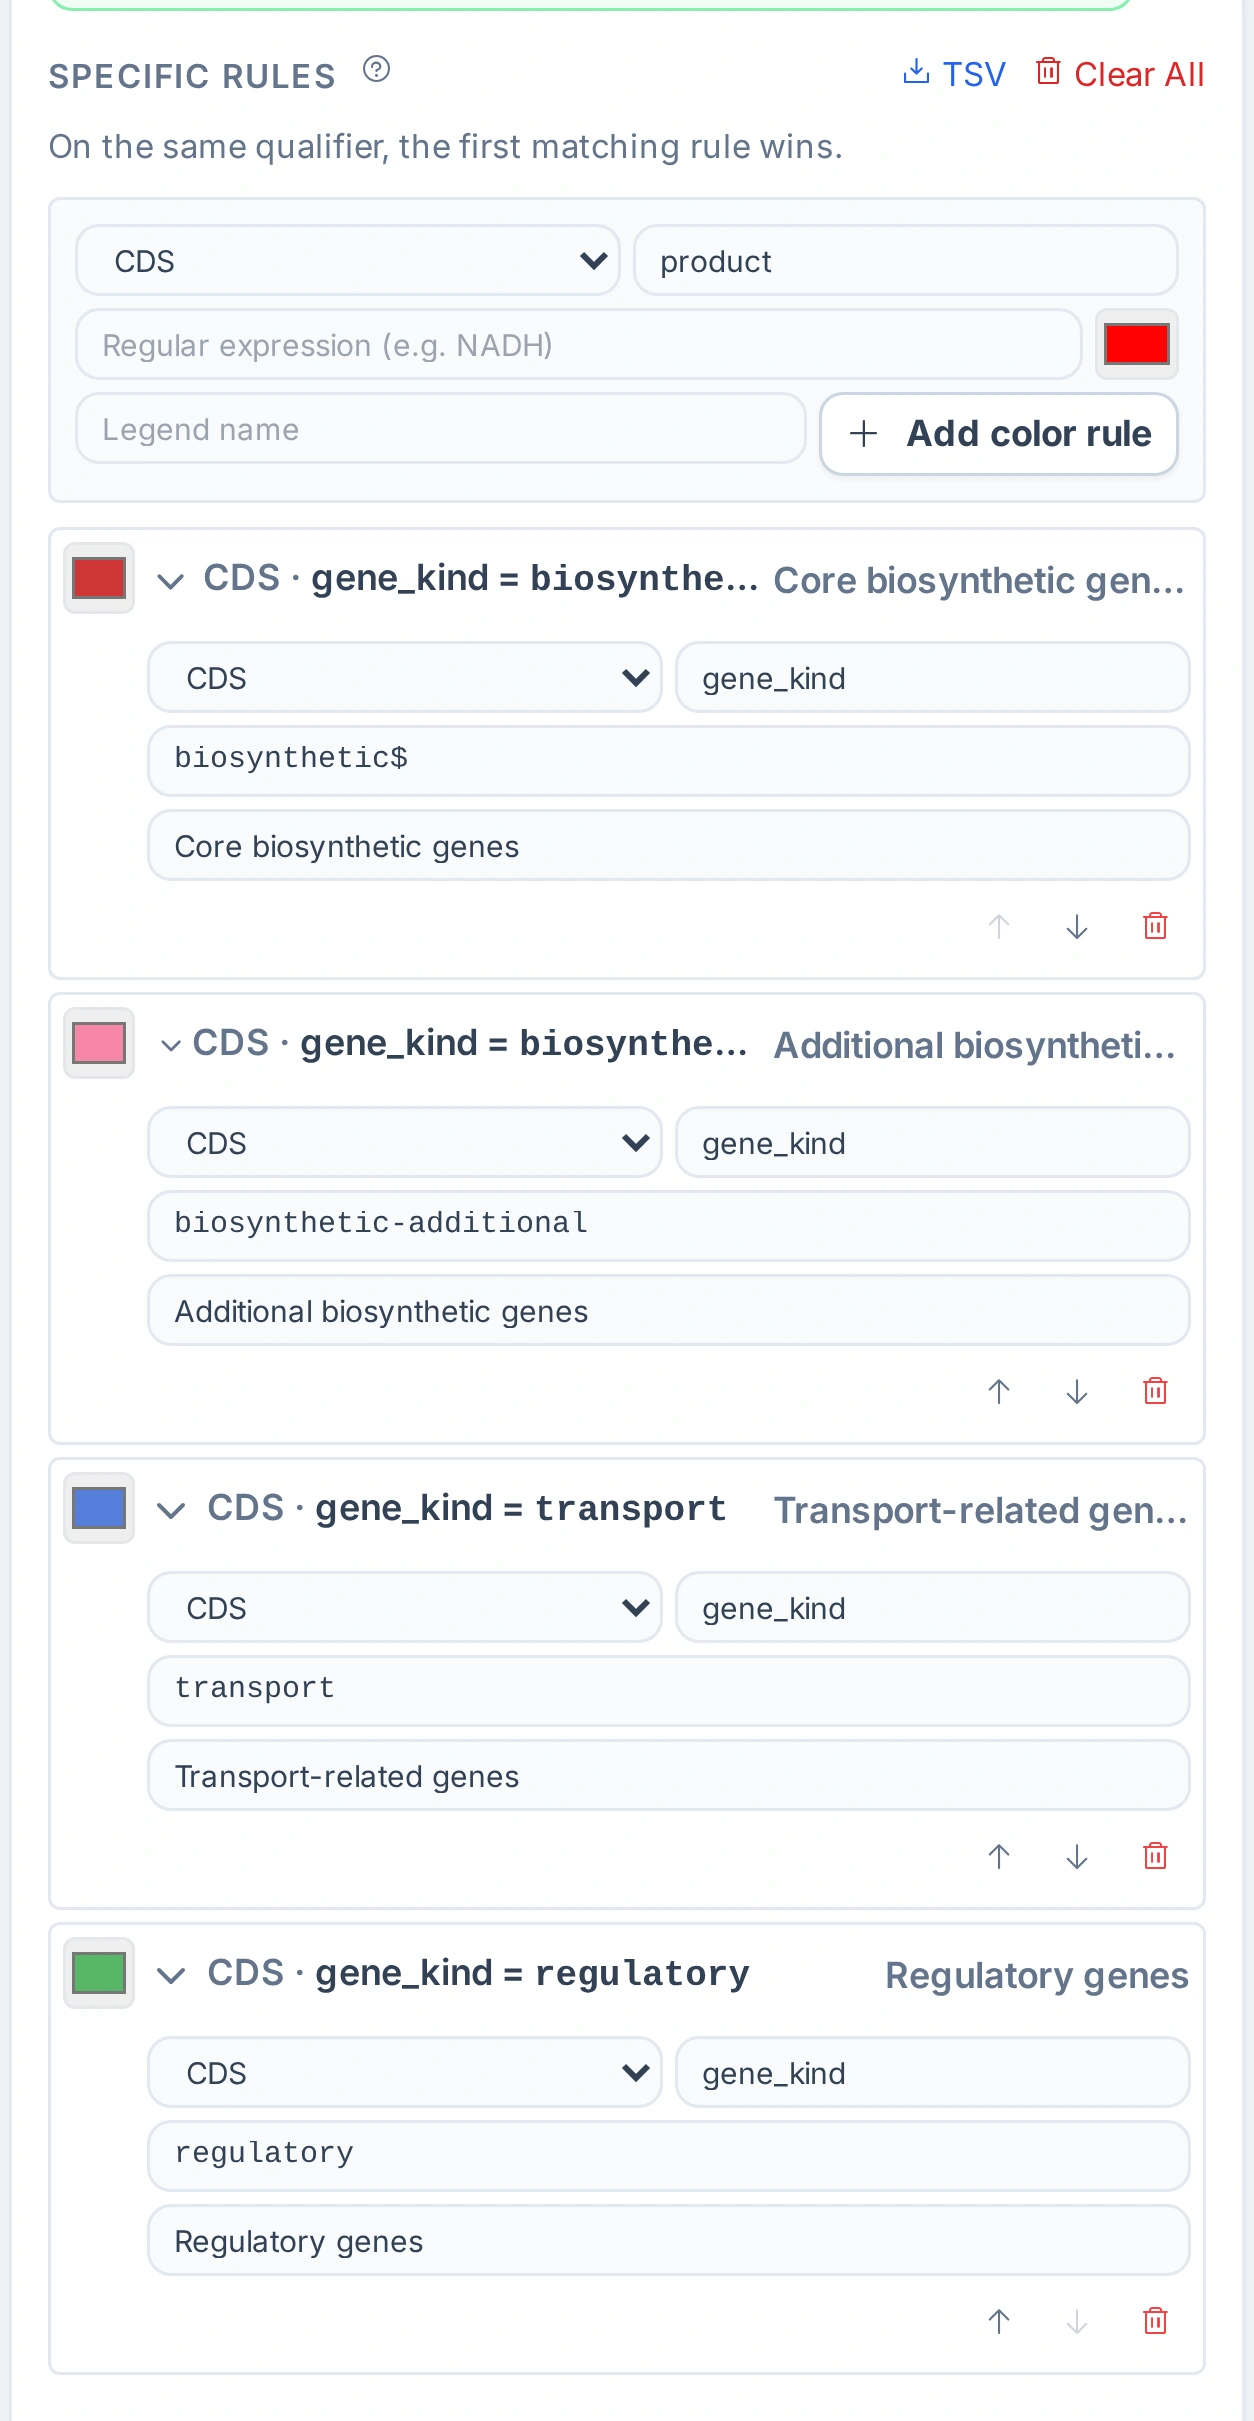
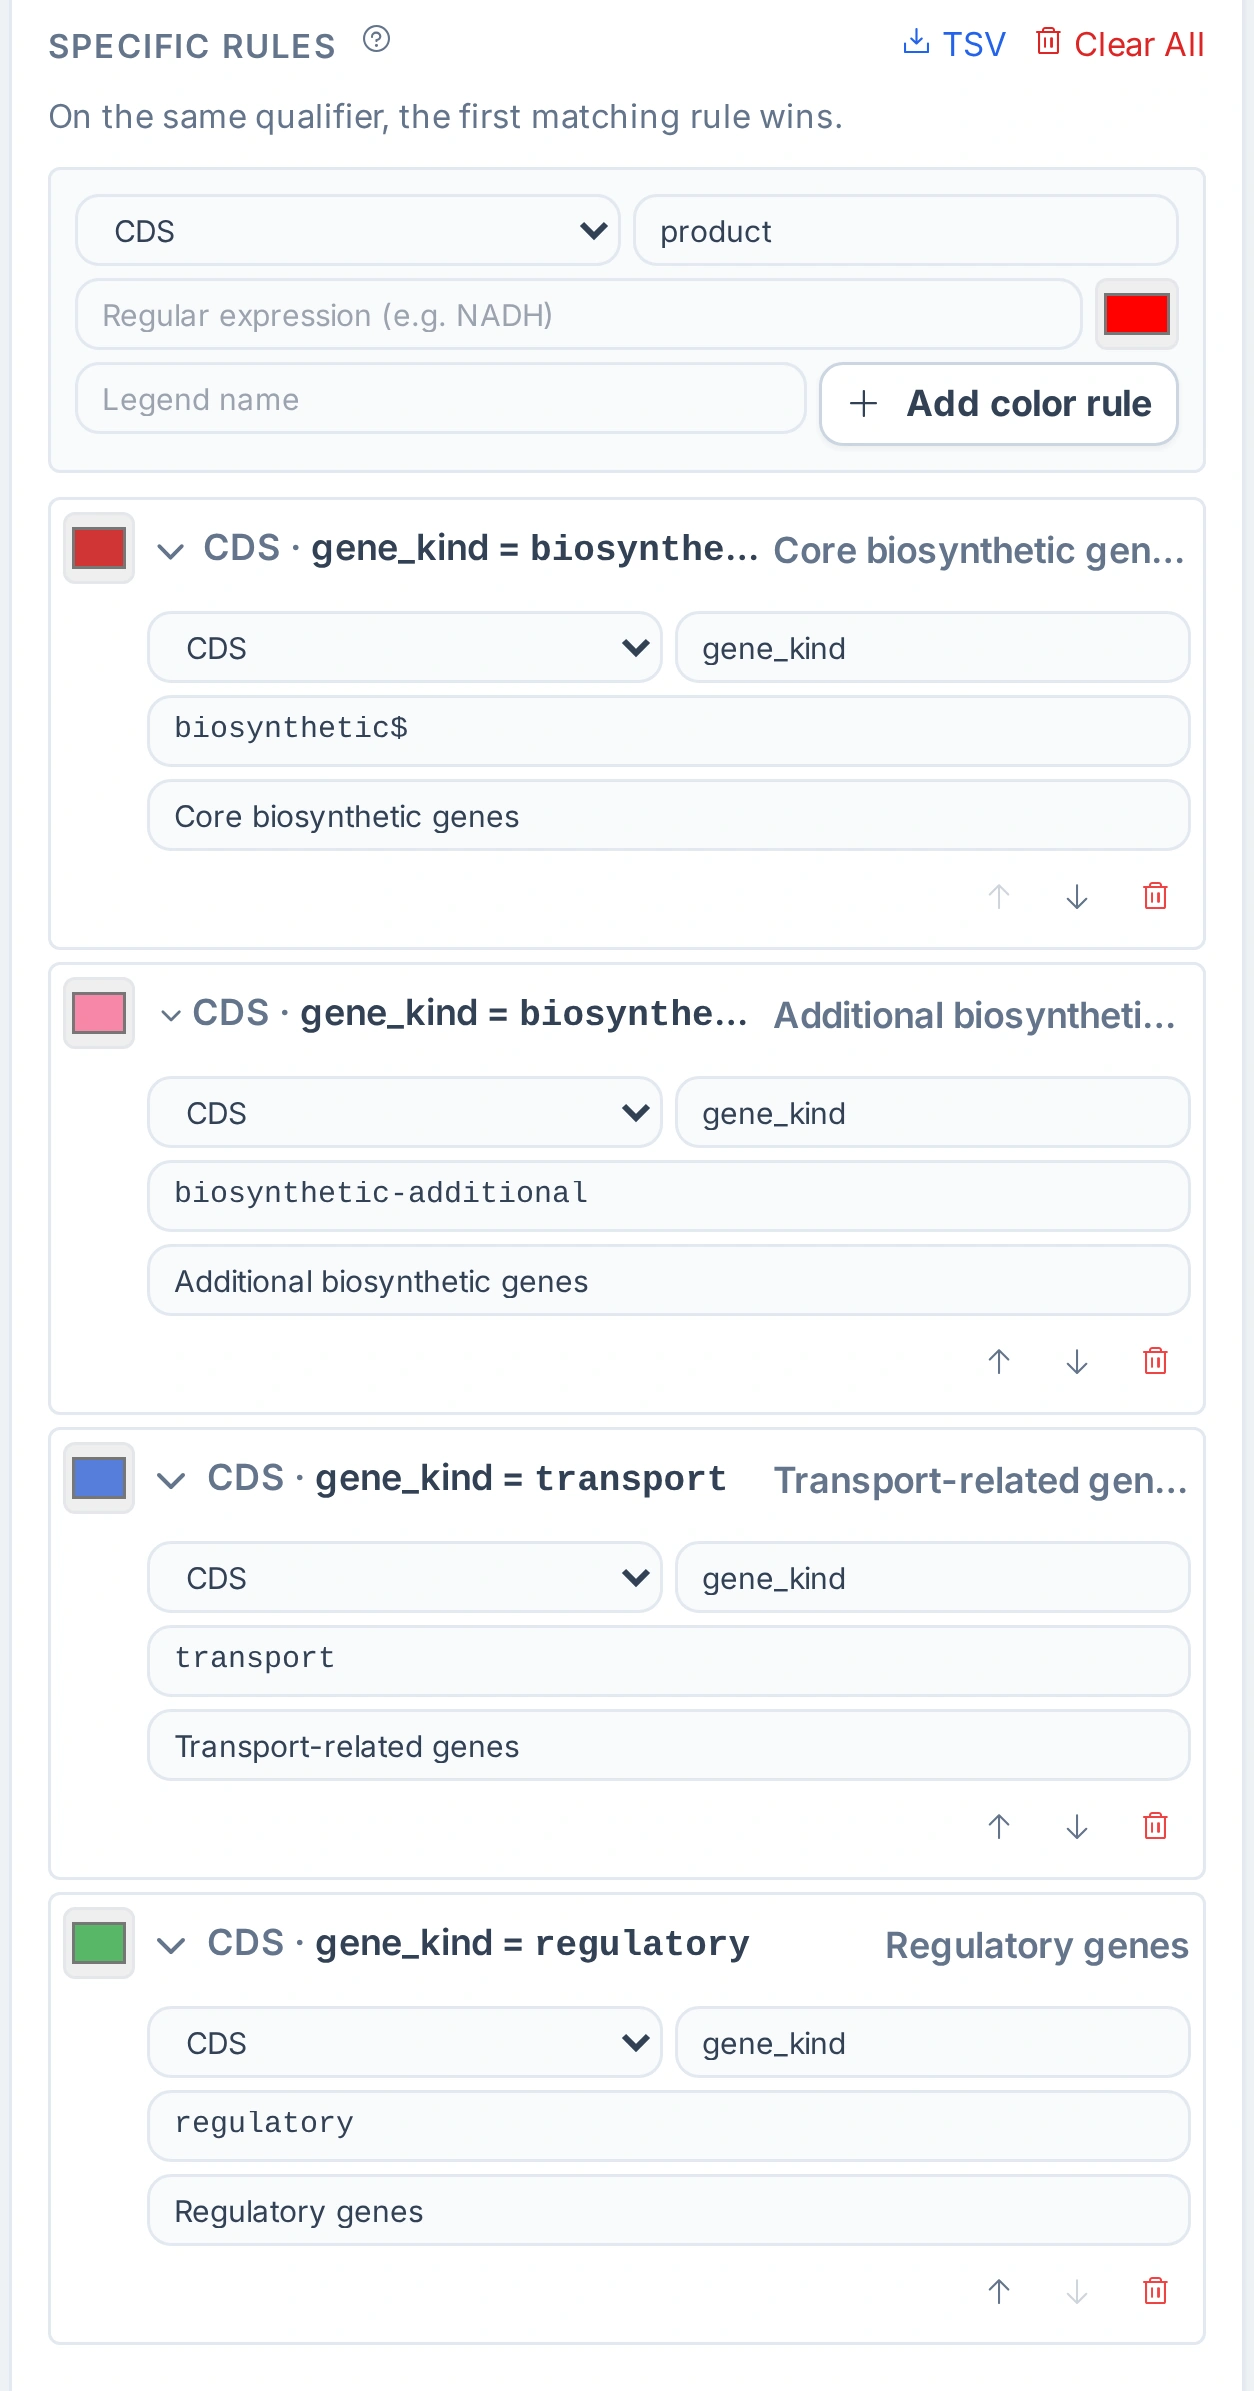
Keep open-select crops inside the Settings pane's page
OV-3395: an open-select crop that reached past the Settings pane cut the
figure text of the Preview and the Layout button at its edge (BGC step 10,
Vnig step 5), and the footer text. The capture tool now hides the header, the
Result and the footer for every open-select capture (visibility only, nothing
moves); of the 22 open-select captures only those two change. BGC step 9's
crop starts below the box above SPECIFIC RULES, whose border it cut.

diff --git a/tests/test_gallery_capture_browser.py b/tests/test_gallery_capture_browser.py
@@ -39,3 +39,39 @@ def test_open_select_overlay_keeps_selected_option_of_a_long_list_in_the_crop() 
     assert selected["menuTop"] <= selected["top"] and selected["bottom"] <= selected["menuBottom"]
     assert clip["y"] <= selected["top"] and selected["bottom"] <= clip["y"] + clip["height"]
     assert clip["height"] < 600
+
+
+def test_a_capture_hides_what_lies_around_its_subject_and_moves_nothing() -> None:
+    """An open-select crop hides the page beside the Settings pane (OV-3395: its edge cut
+    figure text and the Layout button), and an open popup hides the Settings pane under it;
+    neither moves anything."""
+
+    playwright_api = pytest.importorskip("playwright.sync_api")
+    html = (
+        "<html><body style='margin:0'><header class='app-header'>gbdraw</header>"
+        "<main><div class='settings-pane' style='width:300px'><select><option>A</option></select></div>"
+        "<div id='result-pane'>figure</div></main><footer data-app-footer>Disclaimer</footer></body></html>"
+    )
+    hidden = """() => Object.fromEntries(['.app-header', '.settings-pane', '#result-pane', '[data-app-footer]']
+      .map((selector) => [selector, getComputedStyle(document.querySelector(selector)).visibility === 'hidden']))"""
+    with playwright_api.sync_playwright() as playwright:
+        browser = playwright.chromium.launch()
+        try:
+            page = browser.new_page(viewport={"width": 800, "height": 600})
+            page.set_content(html)
+            before = page.evaluate("() => document.querySelector('#result-pane').getBoundingClientRect().toJSON()")
+            capture_tool.hide_settings_pane_under_popup(page)
+            no_popup = page.evaluate(hidden)
+            capture_tool.hide_page_around_settings_pane(page)
+            open_select = page.evaluate(hidden)
+            after = page.evaluate("() => document.querySelector('#result-pane').getBoundingClientRect().toJSON()")
+            page.set_content(html.replace("</main>", "<div class='feature-popup'>dnaA</div></main>"))
+            capture_tool.hide_settings_pane_under_popup(page)
+            popup = page.evaluate(hidden)
+        finally:
+            browser.close()
+
+    assert not any(no_popup.values())
+    assert open_select == {".app-header": True, ".settings-pane": False, "#result-pane": True, "[data-app-footer]": True}
+    assert before == after
+    assert popup == {".app-header": False, ".settings-pane": True, "#result-pane": False, "[data-app-footer]": False}

diff --git a/tools/capture_gallery_tutorial_screenshots.py b/tools/capture_gallery_tutorial_screenshots.py
@@ -1521,6 +1521,22 @@ def hide_settings_pane_under_popup(page) -> None:
     )
 
 
+def hide_page_around_settings_pane(page) -> None:
+    """An open-select crop shows a settings control and its menu, which may reach past the
+    Settings pane: hide the rest of the page (header, Result, footer), so the crop's edge cuts
+    no figure, button or text there (OV-3374). Everything keeps its place."""
+
+    page.evaluate(
+        """
+        () => {
+          document.querySelectorAll('.app-header, #result-pane, [data-app-footer]').forEach((element) => {
+            element.style.setProperty('visibility', 'hidden', 'important');
+          });
+        }
+        """
+    )
+
+
 def wait_for_css_transitions(page) -> None:
     """Let running CSS transitions end, so a crop never shows a control mid-change.
 
@@ -1582,6 +1598,8 @@ def capture_operation(page, sample: dict[str, Any], operation: dict[str, Any], b
         """
     )
     hide_settings_pane_under_popup(page)
+    if as_text(capture.get("crop")) == "openSelect":
+        hide_page_around_settings_pane(page)
     apply_open_select_overlays(page, capture.get("openSelect"))
     wait_for_css_transitions(page)
 
